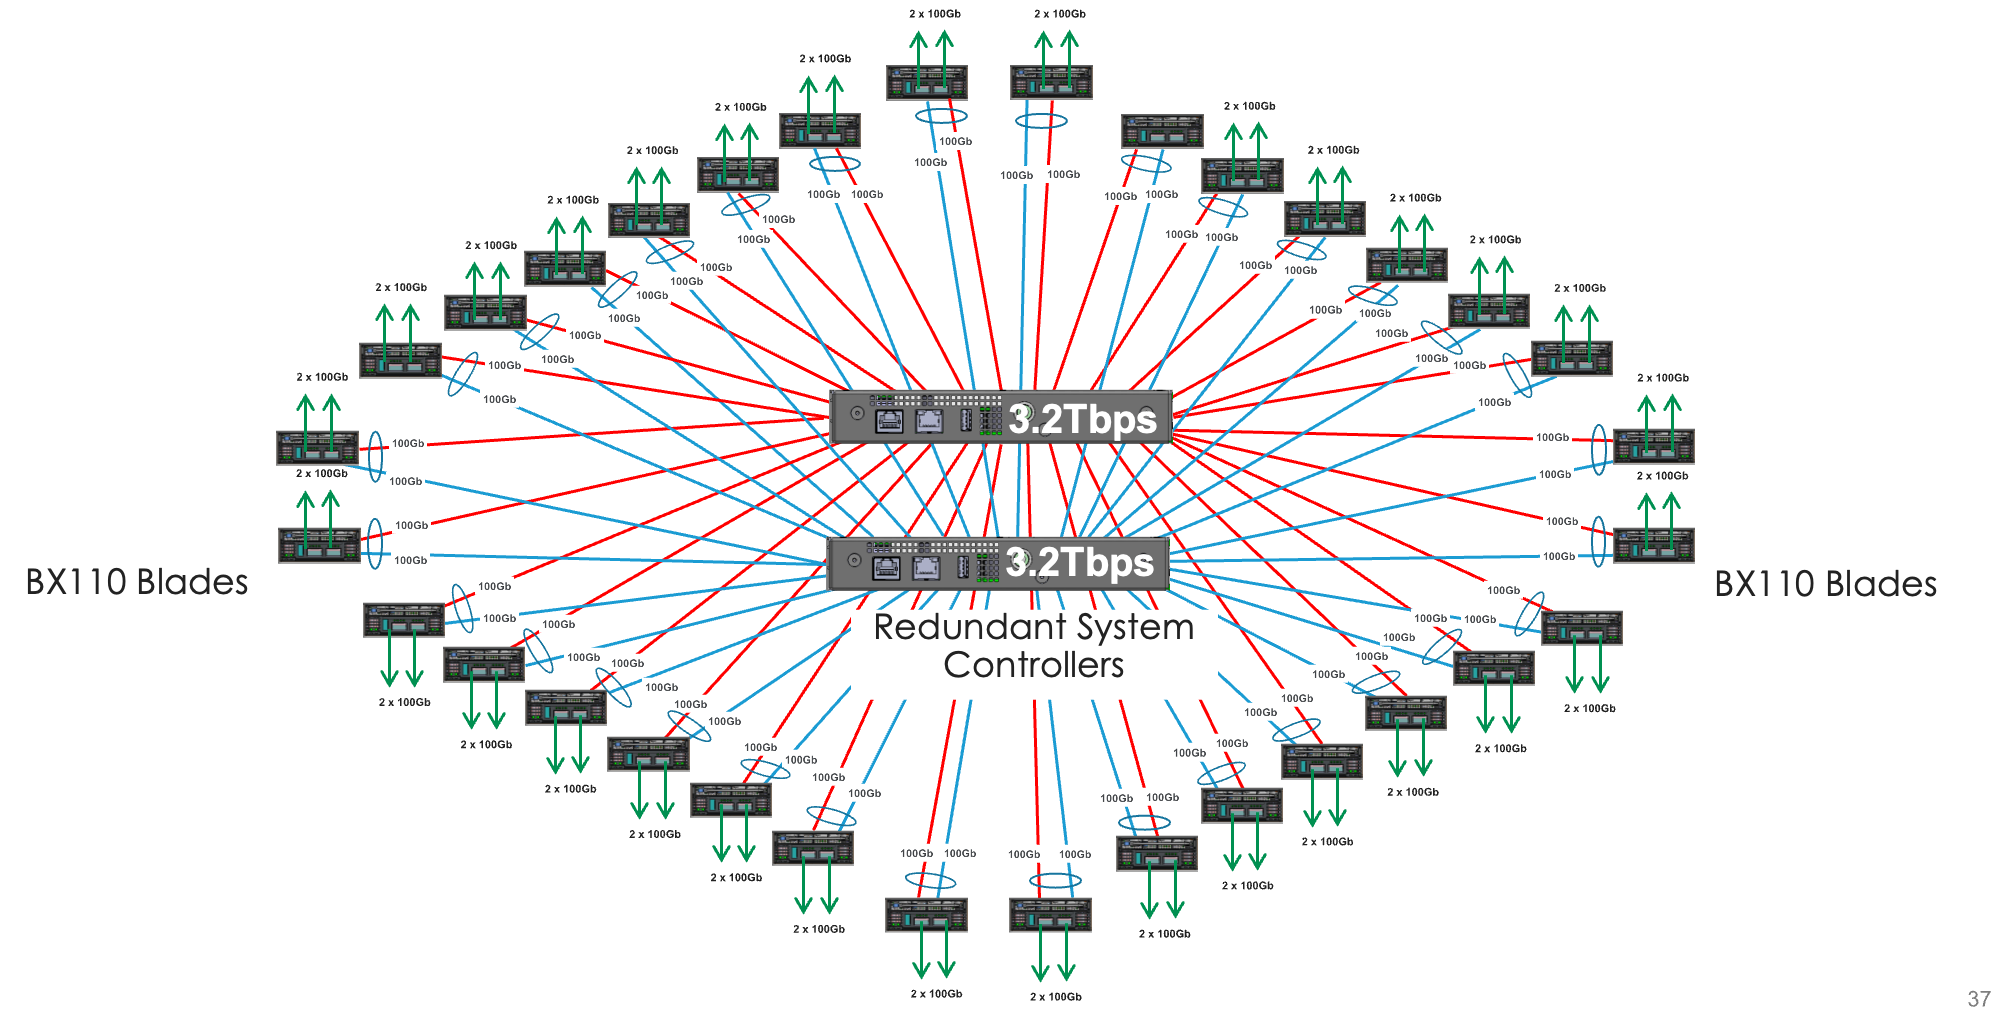
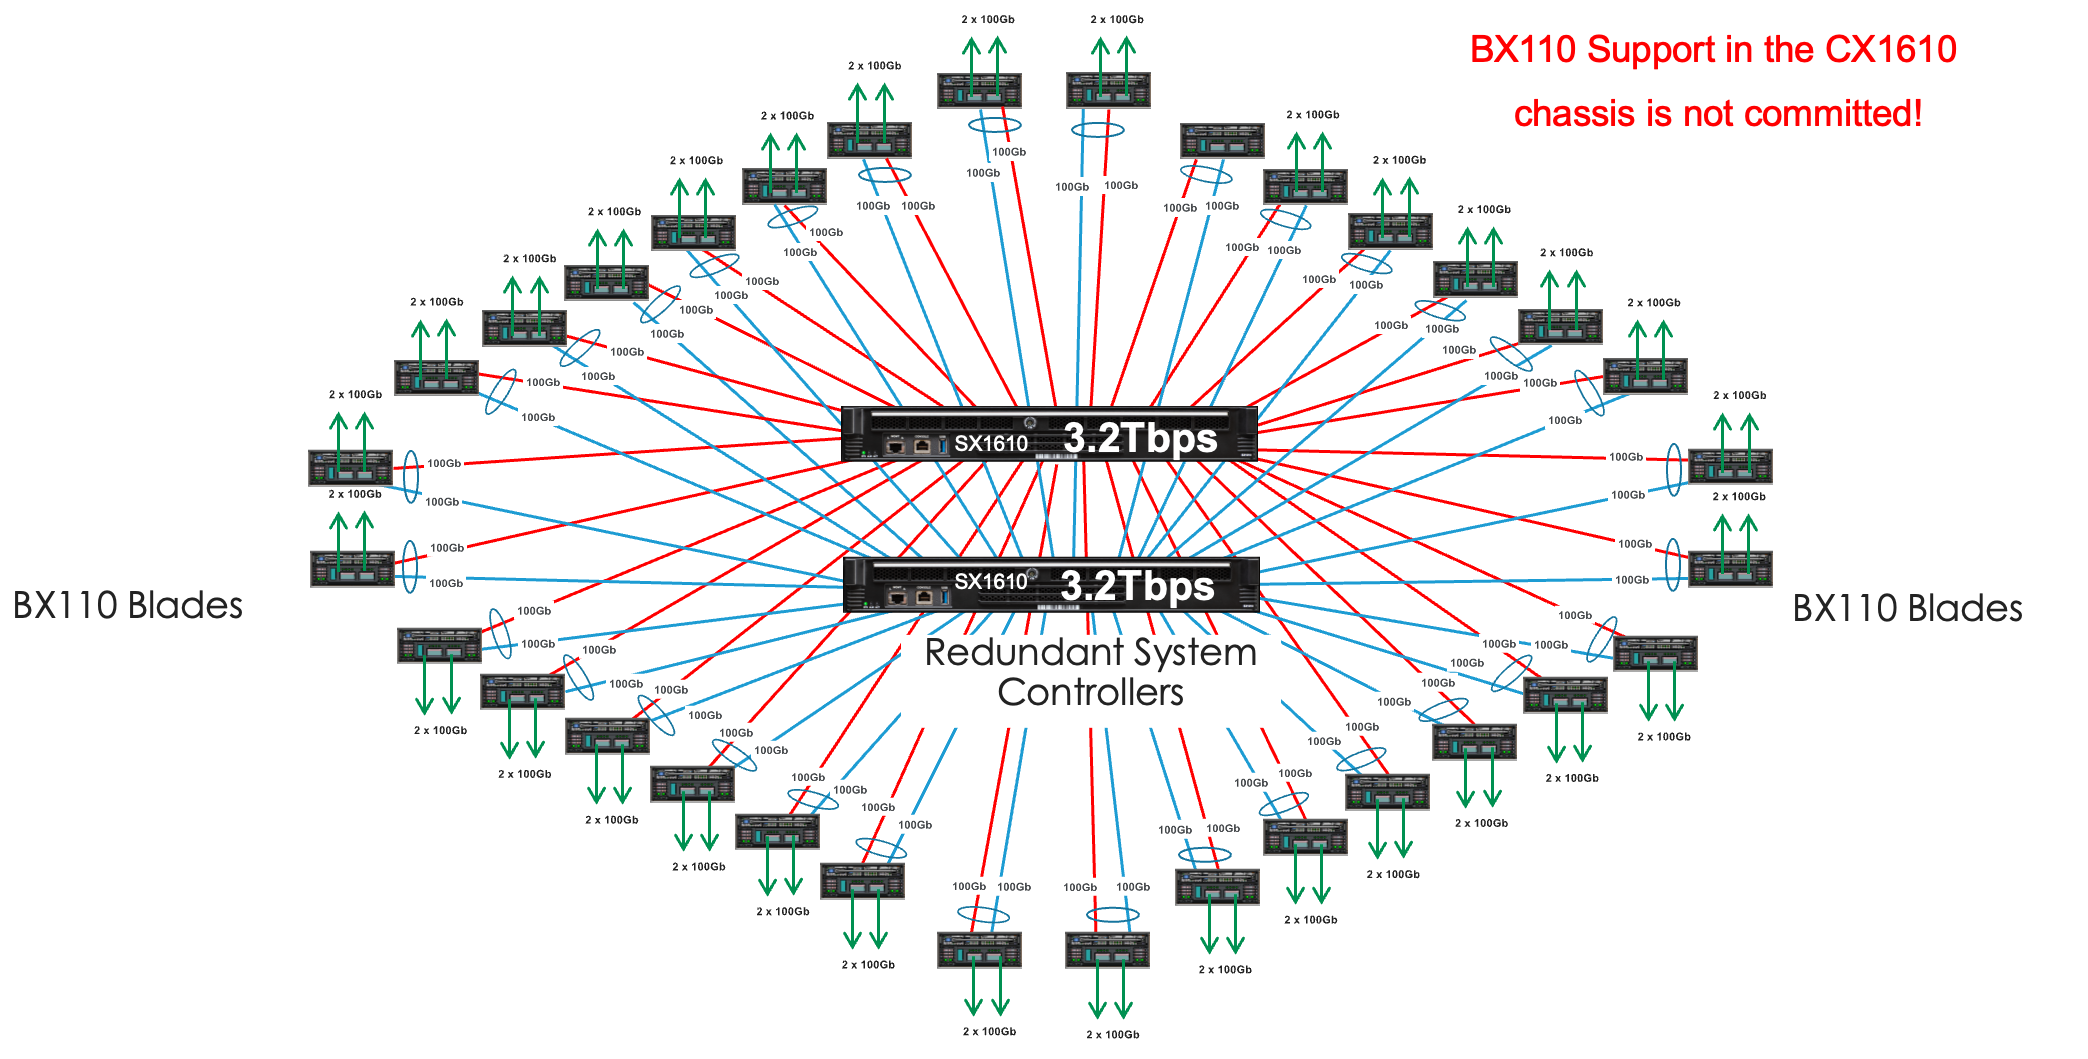
fixed mixed blade

diff --git a/docs/introduction_new.rst b/docs/introduction_new.rst
@@ -139,7 +139,7 @@ The Kubernetes control plane is responsible for deploying workloads to the blade
 Chassis Partitions
 ------------------
 
-Another exciting new feature is the notion of grouping multiple VELOS blades together to form “mini VIPRIONS” within the same VELOS chassis. This will allow for another layer of isolation, in addition to tenancy (like vCMP guests) that VIPRION didn’t support. This could be used to separate production from development/test environments, or to provide different security zones for different classes of applications. Within a VELOS chassis, an administrator can group together one or more blades to form a chassis partition. A chassis may contain multiple chassis partitions, and a blade may belong to only one chassis partition at a time. The minimum unit for a chassis partition is one blade, and the maximum is 8 BX110 blades within the CX410 chassis. For the BX520 blades the maximum chassis partition size is 4 blades in the CX410 chassis, and 16 blades in the CX1610 chassis. Currently, only the CX410 chassis supports mixing both the BX110 and BX520 blades within the same chassis, this is not supported on the CX1610 chassis. You cannot mix different blade types within the same chassis partition, a chassis partition must only include blades of the same type. 
+Another exciting new feature is the notion of grouping multiple VELOS blades together to form “mini VIPRIONS” within the same VELOS chassis. This will allow for another layer of isolation, in addition to tenancy (like vCMP guests) that VIPRION didn’t support. This could be used to separate production from development/test environments, or to provide different security zones for different classes of applications. Within a VELOS chassis, an administrator can group together one or more blades to form a chassis partition. A chassis may contain multiple chassis partitions, and a blade may belong to only one chassis partition at a time. The minimum unit for a chassis partition is one blade, and the maximum is 8 BX110 blades within the CX410 chassis. For the BX520 blades the maximum chassis partition size is 4 blades in the CX410 chassis, and 16 blades in the CX1610 chassis (Added in F5OS-C 1.8.1). Currently, you cannot mix different blade types within the same chassis. In the future, only the CX410 chassis will support mixing both the BX110 and BX520 blades within the same chassis, this is not supported on the CX1610 chassis. When mixed blade support is added in the future on the CX410 chassis, you will not be able to mix different blade types within the same chassis partition, a chassis partition must only include blades of the same type. 
  
 **Note: Chassis partitions are not related to TMOS admin partitions, which are typically used to provide admin separation within a TMOS instance.** 
  
